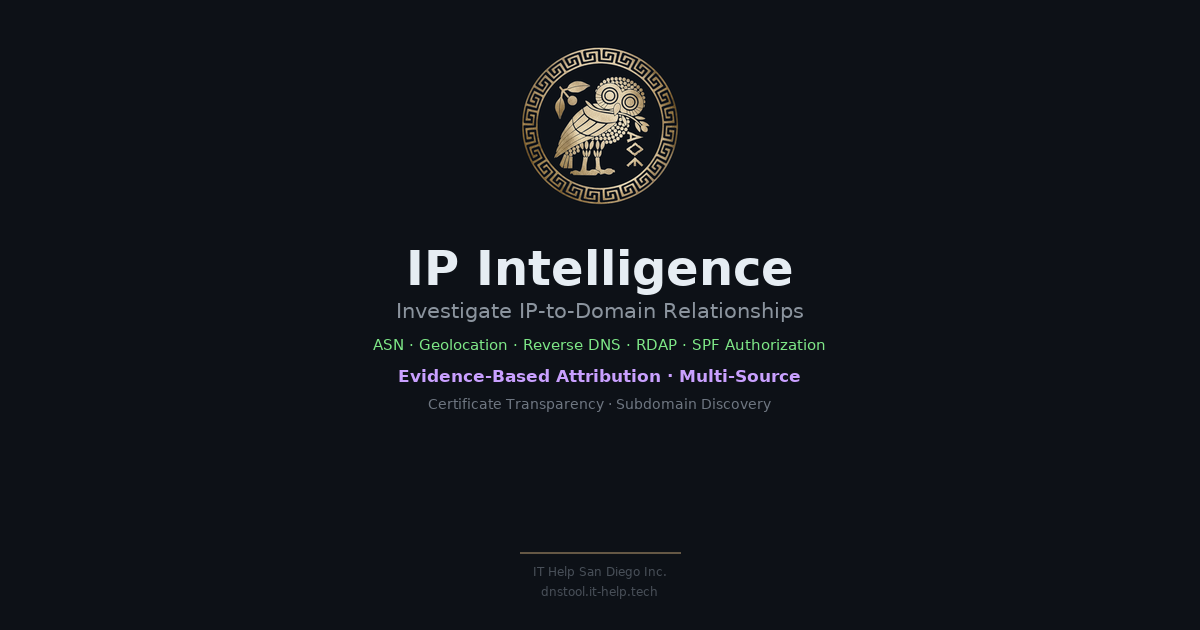
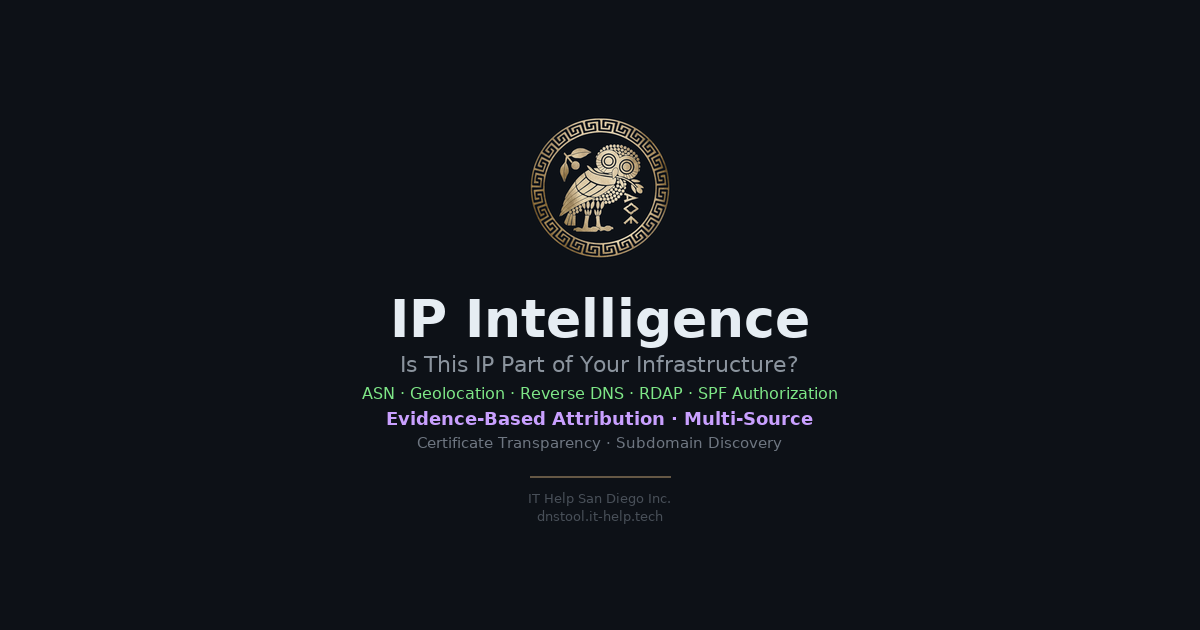
Improve visual layout and accuracy of generated social media images
Adjusted the image generation script to recalculate and center content blocks vertically on the canvas, enhancing visual balance. Updated text content within generated images to accurately reflect page titles and subtitles.

Replit-Commit-Author: Agent
Replit-Commit-Session-Id: 6771c304-e587-47df-bf5b-409bdfbeade9
Replit-Commit-Checkpoint-Type: full_checkpoint
Replit-Commit-Event-Id: 25648d72-7109-4d9e-b43a-38015a3a60ff
Replit-Commit-Screenshot-Url: https://storage.googleapis.com/screenshot-production-us-central1/f2c73519-b3f3-4c33-90b1-699f833acae8/6771c304-e587-47df-bf5b-409bdfbeade9/rEVXYEU
Replit-Helium-Checkpoint-Created: true

Changed region(s): [[0.3083, 0.0603, 0.7092, 0.7238], [0.4317, 0.8746, 0.555, 0.9651], [0.4317, 0.754, 0.555, 0.8444]]

diff --git a/scripts/generate-og-images.py b/scripts/generate-og-images.py
@@ -1,14 +1,10 @@
 #!/usr/bin/env python3
 """Generate OG social card images for DNS Tool.
 
-Layout: 1200x630, centered composition.
-- Owl emblem (~180px) centered horizontally, positioned in upper region
-- Title large and centered
-- Subtitle centered below
-- Protocol tags in accent green, centered
-- Highlight in accent purple, centered
-- Detail line centered
-- Company + URL at bottom with gold accent line
+Layout: 1200x630, vertically balanced composition.
+The content block (owl + text + footer) is measured first,
+then vertically centered in the canvas so nothing clusters
+at the top or leaves dead space at the bottom.
 """
 
 import os
@@ -30,6 +26,23 @@ ACCENT_GOLD = (200, 168, 120)
 FONT_BOLD = "/usr/share/fonts/truetype/dejavu/DejaVuSans-Bold.ttf"
 FONT_REGULAR = "/usr/share/fonts/truetype/dejavu/DejaVuSans.ttf"
 
+OWL_SIZE = 160
+TITLE_SIZE = 52
+SUBTITLE_SIZE = 22
+TAGS_SIZE = 16
+HIGHLIGHT_SIZE = 18
+DETAIL_SIZE = 15
+FOOTER_SIZE = 13
+
+GAP_OWL_TITLE = 20
+GAP_TITLE_SUBTITLE = 12
+GAP_SUBTITLE_TAGS = 16
+GAP_TAGS_HIGHLIGHT = 12
+GAP_HIGHLIGHT_DETAIL = 12
+GAP_DETAIL_FOOTER = 28
+GAP_LINE_COMPANY = 12
+GAP_COMPANY_URL = 4
+
 
 def load_font(path, size):
     try:
@@ -38,64 +51,92 @@ def load_font(path, size):
         return ImageFont.load_default()
 
 
-def text_center_x(draw, text, font):
+def text_width(draw, text, font):
     bbox = draw.textbbox((0, 0), text, font=font)
-    tw = bbox[2] - bbox[0]
-    return (W - tw) // 2
+    return bbox[2] - bbox[0]
+
+
+def text_height(draw, text, font):
+    bbox = draw.textbbox((0, 0), text, font=font)
+    return bbox[3] - bbox[1]
+
+
+def center_x(draw, text, font):
+    return (W - text_width(draw, text, font)) // 2
 
 
 def generate(filename, title, subtitle, tags, highlight, detail):
     img = Image.new("RGBA", (W, H), BG_COLOR)
     draw = ImageDraw.Draw(img)
 
-    owl = Image.open(OWL_PATH).convert("RGBA")
-    owl_size = 180
-    owl = owl.resize((owl_size, owl_size), Image.LANCZOS)
-    owl_x = (W - owl_size) // 2
-    owl_y = 36
-    img.paste(owl, (owl_x, owl_y), owl)
-
-    content_top = owl_y + owl_size + 24
-
-    font_title = load_font(FONT_BOLD, 48)
-    font_subtitle = load_font(FONT_REGULAR, 21)
-    font_tags = load_font(FONT_REGULAR, 15)
-    font_highlight = load_font(FONT_BOLD, 17)
-    font_detail = load_font(FONT_REGULAR, 14)
-    font_footer = load_font(FONT_REGULAR, 12)
-
-    y = content_top
-    x = text_center_x(draw, title, font_title)
-    draw.text((x, y), title, fill=TEXT_PRIMARY, font=font_title)
-    y += 58
-
-    x = text_center_x(draw, subtitle, font_subtitle)
-    draw.text((x, y), subtitle, fill=TEXT_SECONDARY, font=font_subtitle)
-    y += 38
-
-    x = text_center_x(draw, tags, font_tags)
-    draw.text((x, y), tags, fill=ACCENT_GREEN, font=font_tags)
-    y += 30
-
-    x = text_center_x(draw, highlight, font_highlight)
-    draw.text((x, y), highlight, fill=ACCENT_PURPLE, font=font_highlight)
-    y += 30
-
-    x = text_center_x(draw, detail, font_detail)
-    draw.text((x, y), detail, fill=TEXT_MUTED, font=font_detail)
-
-    line_w = 160
-    line_y = H - 78
-    line_x1 = (W - line_w) // 2
-    line_x2 = line_x1 + line_w
-    draw.line([(line_x1, line_y), (line_x2, line_y)], fill=ACCENT_GOLD + (120,), width=2)
+    font_title = load_font(FONT_BOLD, TITLE_SIZE)
+    font_subtitle = load_font(FONT_REGULAR, SUBTITLE_SIZE)
+    font_tags = load_font(FONT_REGULAR, TAGS_SIZE)
+    font_highlight = load_font(FONT_BOLD, HIGHLIGHT_SIZE)
+    font_detail = load_font(FONT_REGULAR, DETAIL_SIZE)
+    font_footer = load_font(FONT_REGULAR, FOOTER_SIZE)
 
     company = "IT Help San Diego Inc."
     url = "dnstool.it-help.tech"
-    x = text_center_x(draw, company, font_footer)
-    draw.text((x, H - 66), company, fill=TEXT_DIM, font=font_footer)
-    x = text_center_x(draw, url, font_footer)
-    draw.text((x, H - 46), url, fill=TEXT_DIM, font=font_footer)
+
+    h_owl = OWL_SIZE
+    h_title = text_height(draw, title, font_title)
+    h_subtitle = text_height(draw, subtitle, font_subtitle)
+    h_tags = text_height(draw, tags, font_tags)
+    h_highlight = text_height(draw, highlight, font_highlight)
+    h_detail = text_height(draw, detail, font_detail)
+    h_company = text_height(draw, company, font_footer)
+    h_url = text_height(draw, url, font_footer)
+    line_h = 2
+
+    total = (h_owl + GAP_OWL_TITLE +
+             h_title + GAP_TITLE_SUBTITLE +
+             h_subtitle + GAP_SUBTITLE_TAGS +
+             h_tags + GAP_TAGS_HIGHLIGHT +
+             h_highlight + GAP_HIGHLIGHT_DETAIL +
+             h_detail + GAP_DETAIL_FOOTER +
+             line_h + GAP_LINE_COMPANY +
+             h_company + GAP_COMPANY_URL +
+             h_url)
+
+    y = (H - total) // 2
+
+    owl = Image.open(OWL_PATH).convert("RGBA")
+    owl = owl.resize((OWL_SIZE, OWL_SIZE), Image.LANCZOS)
+    img.paste(owl, ((W - OWL_SIZE) // 2, y), owl)
+    y += h_owl + GAP_OWL_TITLE
+
+    draw.text((center_x(draw, title, font_title), y), title,
+              fill=TEXT_PRIMARY, font=font_title)
+    y += h_title + GAP_TITLE_SUBTITLE
+
+    draw.text((center_x(draw, subtitle, font_subtitle), y), subtitle,
+              fill=TEXT_SECONDARY, font=font_subtitle)
+    y += h_subtitle + GAP_SUBTITLE_TAGS
+
+    draw.text((center_x(draw, tags, font_tags), y), tags,
+              fill=ACCENT_GREEN, font=font_tags)
+    y += h_tags + GAP_TAGS_HIGHLIGHT
+
+    draw.text((center_x(draw, highlight, font_highlight), y), highlight,
+              fill=ACCENT_PURPLE, font=font_highlight)
+    y += h_highlight + GAP_HIGHLIGHT_DETAIL
+
+    draw.text((center_x(draw, detail, font_detail), y), detail,
+              fill=TEXT_MUTED, font=font_detail)
+    y += h_detail + GAP_DETAIL_FOOTER
+
+    line_w = 140
+    draw.line([((W - line_w) // 2, y), ((W + line_w) // 2, y)],
+              fill=ACCENT_GOLD + (120,), width=2)
+    y += line_h + GAP_LINE_COMPANY
+
+    draw.text((center_x(draw, company, font_footer), y), company,
+              fill=TEXT_DIM, font=font_footer)
+    y += h_company + GAP_COMPANY_URL
+
+    draw.text((center_x(draw, url, font_footer), y), url,
+              fill=TEXT_DIM, font=font_footer)
 
     out_path = os.path.join(STATIC_DIR, filename)
     img_rgb = Image.new("RGB", (W, H), BG_COLOR)
@@ -110,7 +151,7 @@ cards = [
      "DNS Tool",
      "Domain Security Intelligence",
      "SPF \u00b7 DKIM \u00b7 DMARC \u00b7 DANE \u00b7 DNSSEC \u00b7 BIMI \u00b7 MTA-STS \u00b7 TLS-RPT \u00b7 CAA",
-     "9 Protocols Evaluated \u00b7 RFC-Verified",
+     "9 Protocols \u00b7 RFC-Verified \u00b7 Open-Core",
      "Intelligence Confidence Audit Engine (ICAE)"),
     ("og-toolkit.png",
      "Field Tech Toolkit",
@@ -120,13 +161,13 @@ cards = [
      "Wizard-Style Flow with RFC Citations"),
     ("og-investigate.png",
      "IP Intelligence",
-     "Investigate IP-to-Domain Relationships",
+     "Is This IP Part of Your Infrastructure?",
      "ASN \u00b7 Geolocation \u00b7 Reverse DNS \u00b7 RDAP \u00b7 SPF Authorization",
      "Evidence-Based Attribution \u00b7 Multi-Source",
      "Certificate Transparency \u00b7 Subdomain Discovery"),
     ("og-email-header.png",
-     "Email Intelligence",
-     "Email Header Analyzer \u00b7 Spoofing Detection",
+     "Email Header Analyzer",
+     "Did This Email Actually Come from Who It Claims?",
      "SPF \u00b7 DKIM \u00b7 DMARC \u00b7 Delivery Routing \u00b7 Spam Vendor Detection",
      "Authentication Verification \u00b7 RFC-Compliant",
      "OpenPhish Integration \u00b7 Brand Mismatch Detection"),
